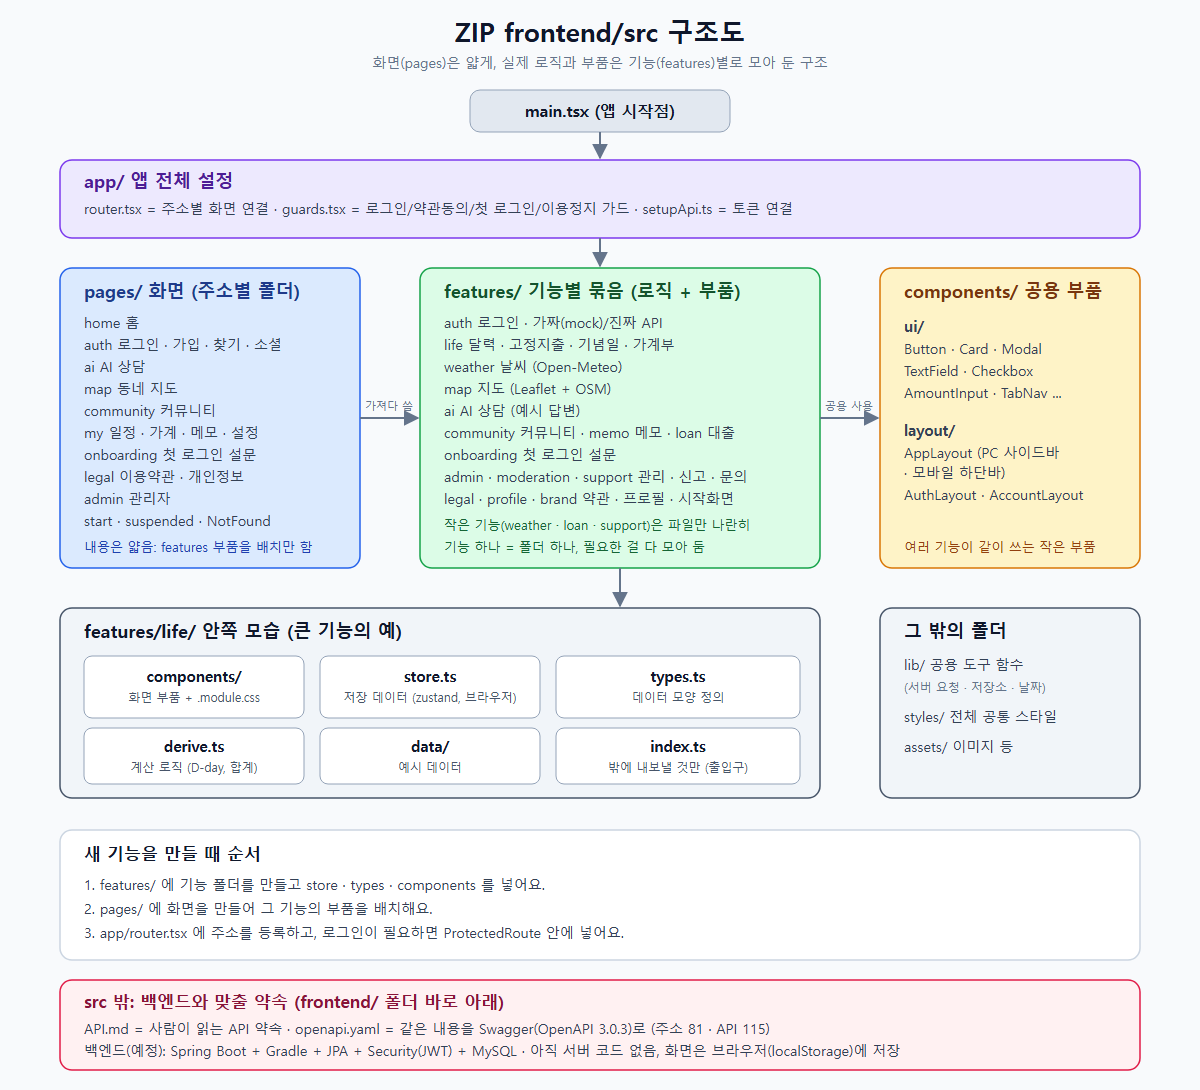
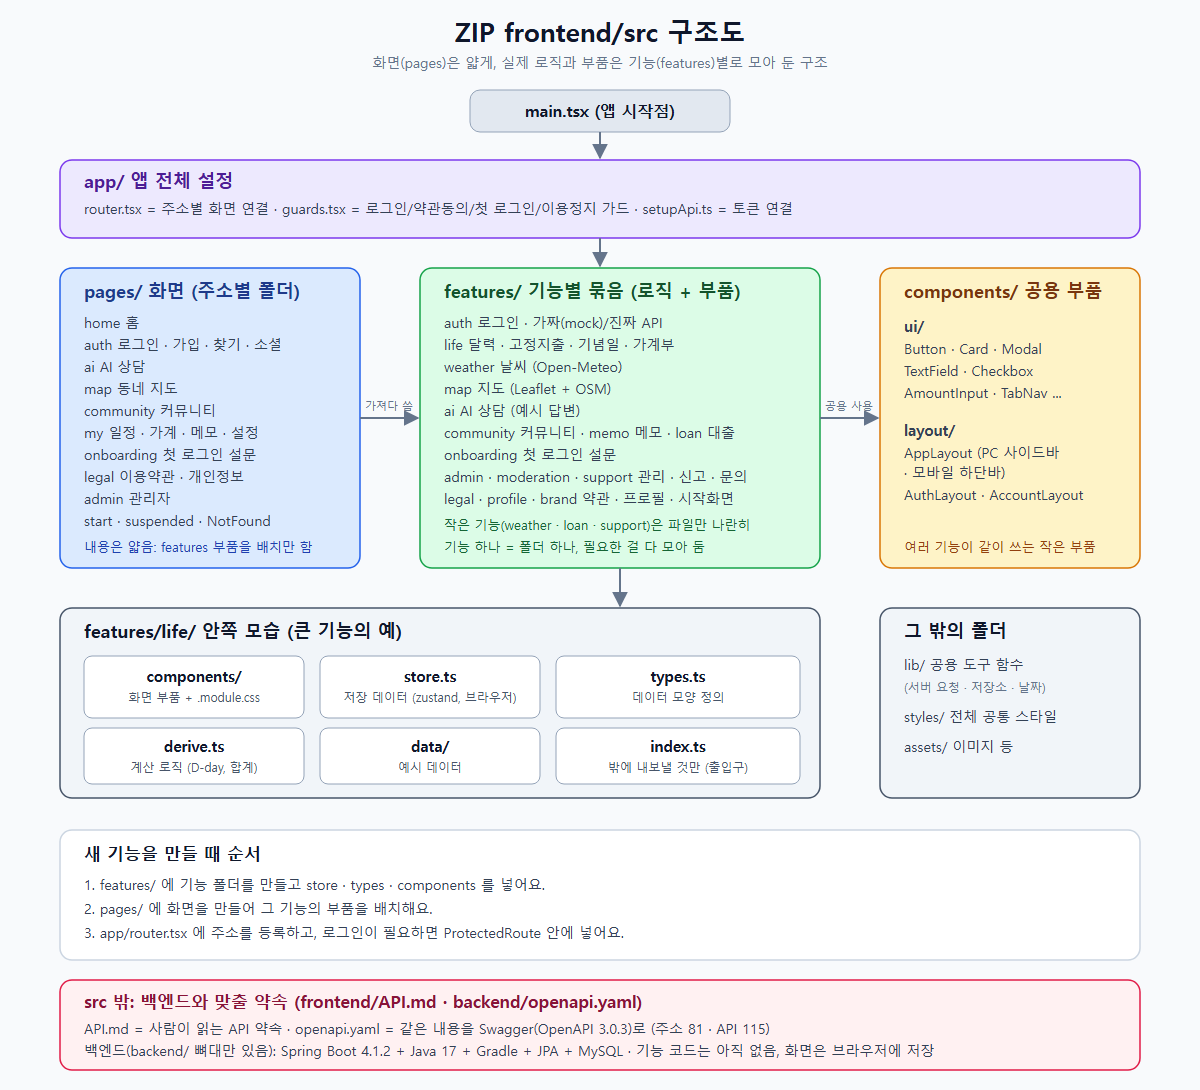
비번 정상화

Changed region(s): [[0.0925, 0.9046, 0.7708, 0.967]]

diff --git a/README.md b/README.md
@@ -34,7 +34,7 @@ frontend/      ★ 실제 앱 (React + TypeScript)
 db/            DB 설계: 표 만드는 SQL(schema.sql) + 한글 설명서(README.md)
 ```
 
-**백엔드 기술 스택 (예정)**: Java · Spring Boot · **Gradle**(빌드 도구, Maven 은 쓰지 않음) · Spring Data JPA · Spring Security + JWT · MySQL.
+**백엔드 기술 스택**: Java 17 · Spring Boot 4.1.2 · **Gradle**(빌드 도구, Maven 은 쓰지 않음) · Spring Data JPA · MySQL (Spring Security + JWT 는 추가 예정). `backend/` 에 뼈대가 올라와 있어요.
 자세한 선택 이유는 `frontend_analyze/백엔드_기술스택_추천.txt` 를 보세요.
 
 ---
